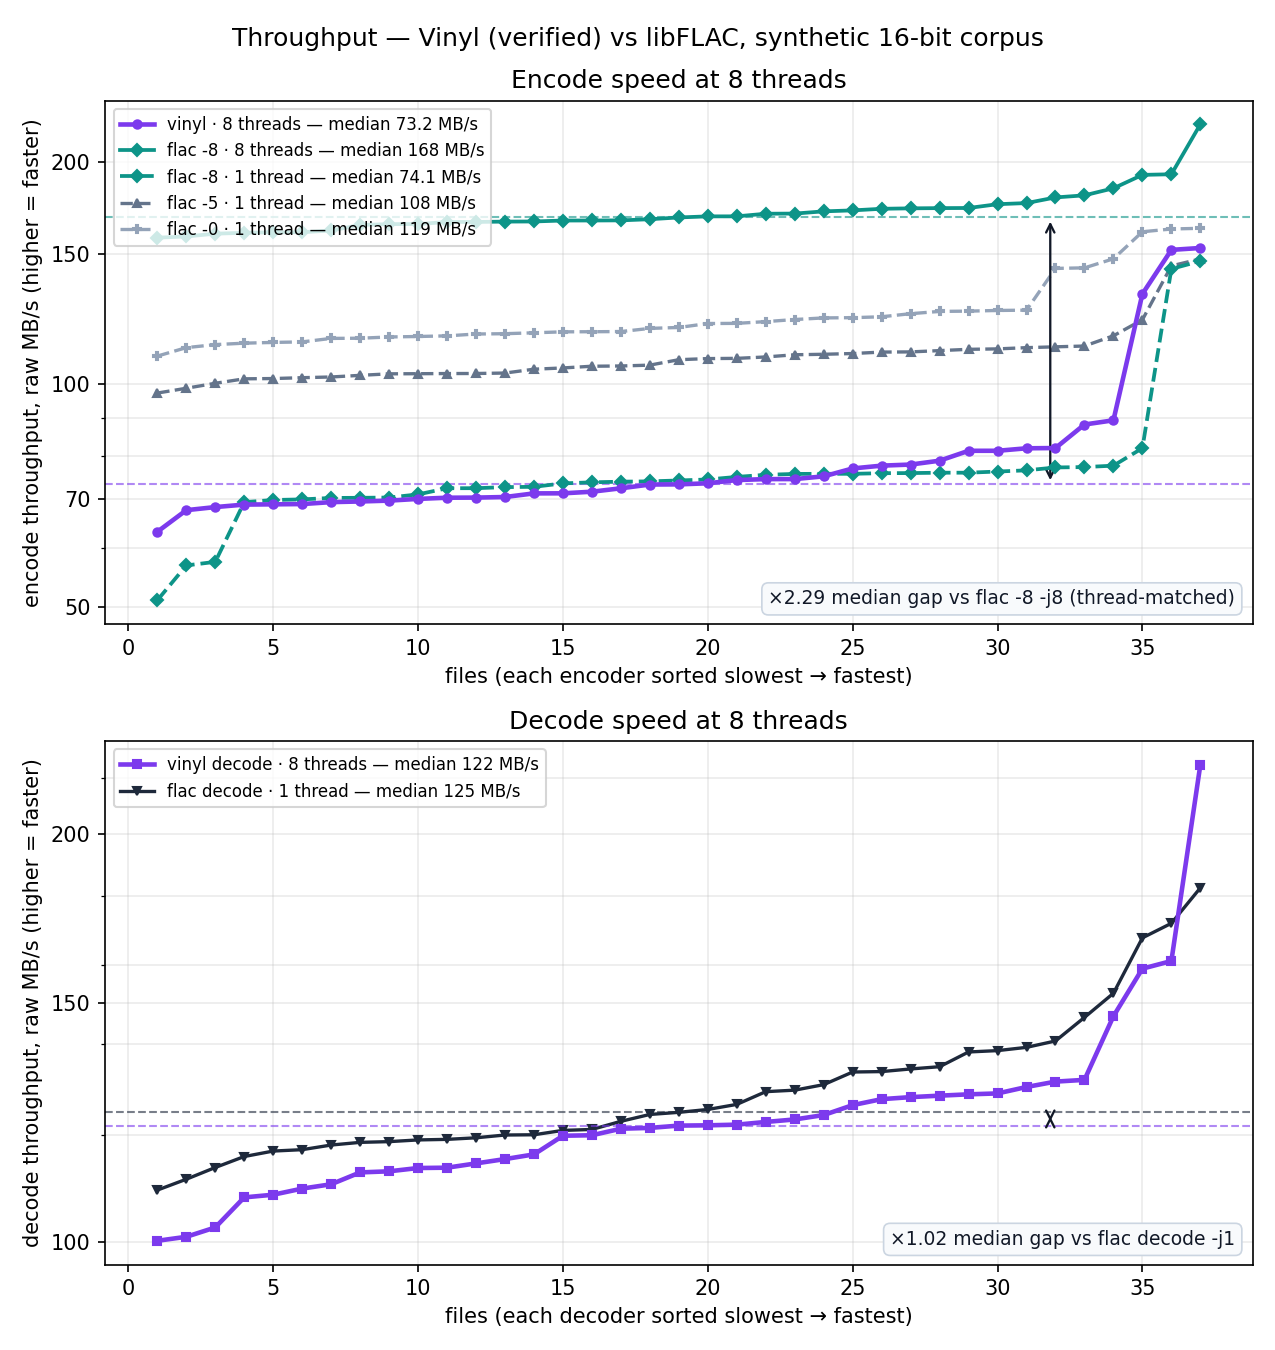
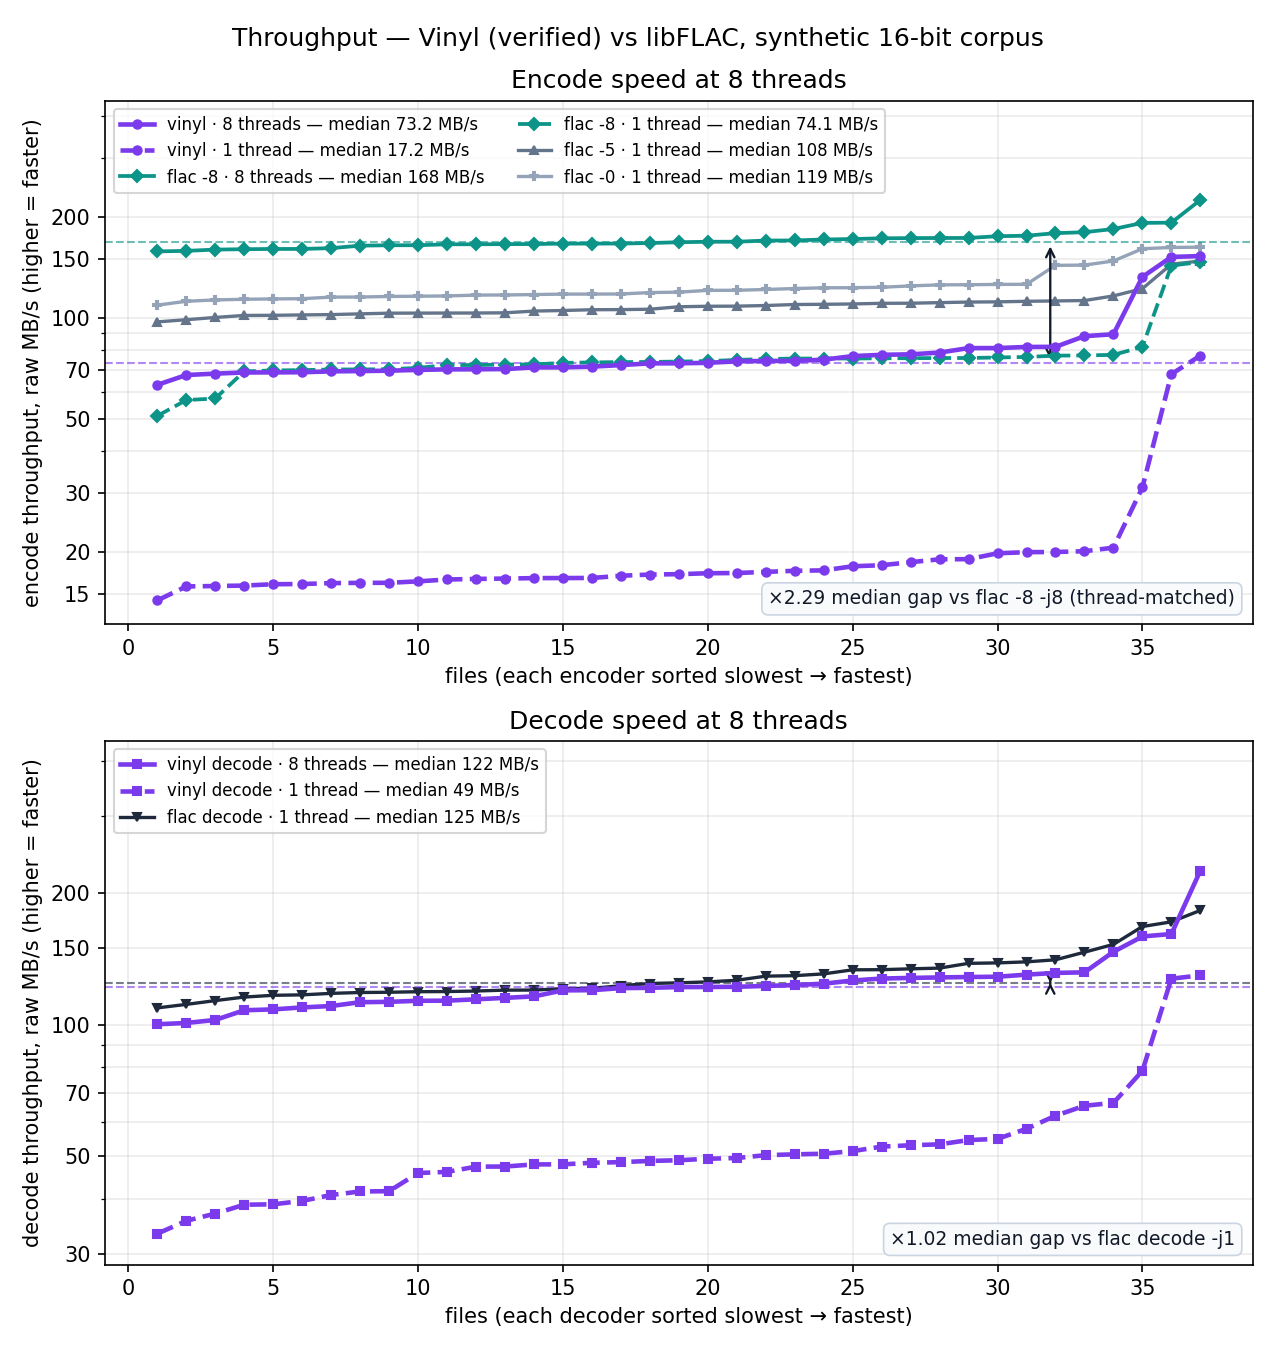
Draw Vinyl at one thread on both throughput figures
performance.png and real_performance.png showed Vinyl only at the headline
thread count, so the per-thread gap — the actual codec comparison — was in the
tables but not on the plots.  Each parallel implementation is now drawn twice,
solid at the headline count and dashed at one.

This also fixes a line-style bug that would have made the two decode curves
indistinguishable: the dash test excluded every decode family, so that
`flac decode -j1` (libFLAC's only configuration) drew solid, which also forced
`vinyl decode -j1` solid in the same violet with the same marker.  A curve is
now dashed when it is not at its own family's maximum thread count, which gets
both cases right.

Legends gained dedicated headroom, measured in decades of the log axis and
scaled to the row count, because six sweep entries otherwise sat on the
`flac -0`/`-5` curves.

Advances M6 (performance under the theorem ratchet).

diff --git a/bench/plot.py b/bench/plot.py
@@ -19,6 +19,7 @@ is about a third of the measurement, so the per-core reading here is much
 noisier than the real-audio suite's — that suite is where to read it.
 """
 import csv
+import math
 import os
 import re
 import statistics
@@ -136,7 +137,7 @@ def throughput_panel(ax, jobs, kind, gap_pair, gap_note=""):
         ax.plot(range(1, len(ys) + 1), ys, ms=4, **FAMILY[family],
                 label=f"{family} · {count} thread{'s' if count > 1 else ''}"
                       f" — median {statistics.median(ys):.3g} MB/s",
-                ls="--" if count != HEAD and "decode" not in family else "-")
+                ls="-" if count == max(threadsets[family]) else "--")
     ax.set_xlabel(f"files (each {kind}r sorted slowest → fastest)")
     ax.set_ylabel(f"{kind} throughput, raw MB/s (higher = faster)")
     ax.set_yscale("log")
@@ -165,17 +166,25 @@ def throughput_panel(ax, jobs, kind, gap_pair, gap_note=""):
                           ec="#cbd5e1", lw=0.8))
     ax.set_title(f"{kind.capitalize()} speed at {HEAD} threads")
     ax.grid(alpha=0.25, which="both")
-    ax.legend(fontsize=8, loc="upper left")
+    # Curves rise left to right, so the legend belongs top-left — but with a
+    # thread sweep there are enough entries to sit on the curves.  Give it its
+    # own headroom instead, measured in decades of the log axis.
+    plotted = sum(1 for j in jobs if j in speed)
+    ncol = 2 if plotted > 3 else 1
+    rows = -(-plotted // ncol)
+    lo, hi = min(allv) * 0.85, max(allv) * 1.1
+    ax.set_ylim(lo, hi * 10 ** (0.085 * rows))
+    ax.legend(fontsize=8, loc="upper left", ncol=ncol)
 
 
 fig2, (ax2, ax4) = plt.subplots(2, 1, figsize=(8.5, 9), dpi=150)
 throughput_panel(
     ax2,
-    [("vinyl", HEAD), ("flac -8", HEAD), ("flac -8", 1), ("flac -5", 1),
-     ("flac -0", 1)],
+    [("vinyl", HEAD), ("vinyl", 1), ("flac -8", HEAD), ("flac -8", 1),
+     ("flac -5", 1), ("flac -0", 1)],
     "encode", (("vinyl", HEAD), ("flac -8", HEAD)), gap_note=" (thread-matched)")
 throughput_panel(
-    ax4, [("vinyl decode", HEAD), ("flac decode", 1)],
+    ax4, [("vinyl decode", HEAD), ("vinyl decode", 1), ("flac decode", 1)],
     "decode", (("vinyl decode", HEAD), ("flac decode", 1)))
 fig2.suptitle("Throughput — Vinyl (verified) vs libFLAC, synthetic 16-bit corpus")
 fig2.tight_layout()

diff --git a/bench/real_plot.py b/bench/real_plot.py
@@ -17,6 +17,7 @@ swept: Vinyl's encoder and decoder are frame-parallel and libFLAC 1.5.0 takes
 `-j`.  libFLAC's decoder has no threading option and appears at `-j1` only.
 """
 import csv
+import math
 import os
 import re
 import statistics
@@ -159,7 +160,7 @@ def throughput_panel(ax, jobs, kind, gap_pair, gap_note=""):
         ax.plot(range(1, len(ys) + 1), ys, ms=3.5, **FAMILY[family],
                 label=f"{family} · {count} thread{'s' if count > 1 else ''}"
                       f" — median {statistics.median(ys):.3g} MB/s",
-                ls="--" if count != HEAD and "decode" not in family else "-")
+                ls="-" if count == max(threadsets[family]) else "--")
     ax.set_xlabel(f"benchmark units (each {kind}r sorted slowest → fastest)")
     ax.set_ylabel(f"{kind} throughput, raw MB/s (higher = faster)")
     ax.set_yscale("log")
@@ -188,16 +189,25 @@ def throughput_panel(ax, jobs, kind, gap_pair, gap_note=""):
                           ec="#cbd5e1", lw=0.8))
     ax.set_title(f"{kind.capitalize()} speed at {HEAD} threads")
     ax.grid(alpha=0.25, which="both")
-    ax.legend(fontsize=8, loc="upper left")
+    # Curves rise left to right, so the legend belongs top-left — but with a
+    # thread sweep there are enough entries to sit on the curves.  Give it its
+    # own headroom instead, measured in decades of the log axis.
+    plotted = sum(1 for j in jobs if j in speed)
+    ncol = 2 if plotted > 3 else 1
+    rows = -(-plotted // ncol)
+    lo, hi = min(allv) * 0.85, max(allv) * 1.1
+    ax.set_ylim(lo, hi * 10 ** (0.085 * rows))
+    ax.legend(fontsize=8, loc="upper left", ncol=ncol)
 
 
 fig2, (ax2, ax4) = plt.subplots(2, 1, figsize=(9, 9.5), dpi=150)
 throughput_panel(
     ax2,
-    [("vinyl", HEAD), ("flac -8", HEAD), ("flac -8", 1), ("flac -5", 1)],
+    [("vinyl", HEAD), ("vinyl", 1), ("flac -8", HEAD), ("flac -8", 1),
+     ("flac -5", 1)],
     "encode", (("vinyl", HEAD), ("flac -8", HEAD)), gap_note=" (thread-matched)")
 throughput_panel(
-    ax4, [("vinyl decode", HEAD), ("flac decode", 1)],
+    ax4, [("vinyl decode", HEAD), ("vinyl decode", 1), ("flac decode", 1)],
     "decode", (("vinyl decode", HEAD), ("flac decode", 1)))
 fig2.suptitle("Throughput — Vinyl (verified) vs libFLAC 1.5.0, real-audio corpora")
 fig2.tight_layout()

diff --git a/bench/README.md b/bench/README.md
@@ -148,8 +148,11 @@ See [what the real corpus settled](#what-the-real-corpus-settled).
 
 **Top** — encode. **Bottom** — decode (the shipped buffered decoder). Per-file
 throughput on a log scale, sorted slowest→fastest per implementation; dashed
-lines mark the two medians the arrow spans, and every legend entry carries its
-thread count.
+horizontal lines mark the two medians the arrow spans, and every legend entry
+carries its thread count. Each parallel implementation is drawn **twice** —
+solid at eight threads, dashed at one — so the per-thread gap is legible
+straight off the figure: Vinyl's one-thread encode curve sits at the bottom,
+about 4× below `flac -8`'s.
 
 ![Throughput vs libFLAC](performance.png)
 
@@ -380,9 +383,11 @@ rather than an accounting preference.
 ### Speed
 
 Per-unit throughput, log scale, sorted slowest→fastest per implementation; a
-curve that sits higher is faster. Dashed lines mark the two medians the arrow
-spans, and every legend entry carries its thread count. **Top** — encode.
-**Bottom** — decode (the shipped buffered decoder).
+curve that sits higher is faster. Dashed horizontal lines mark the two medians
+the arrow spans, and every legend entry carries its thread count. Each parallel
+implementation is drawn **twice** — solid at eight threads, dashed at one — so
+the per-thread comparison and the thread-matched one are both on the same
+axes. **Top** — encode. **Bottom** — decode (the shipped buffered decoder).
 
 ![Throughput vs libFLAC on real audio](real_performance.png)
 
